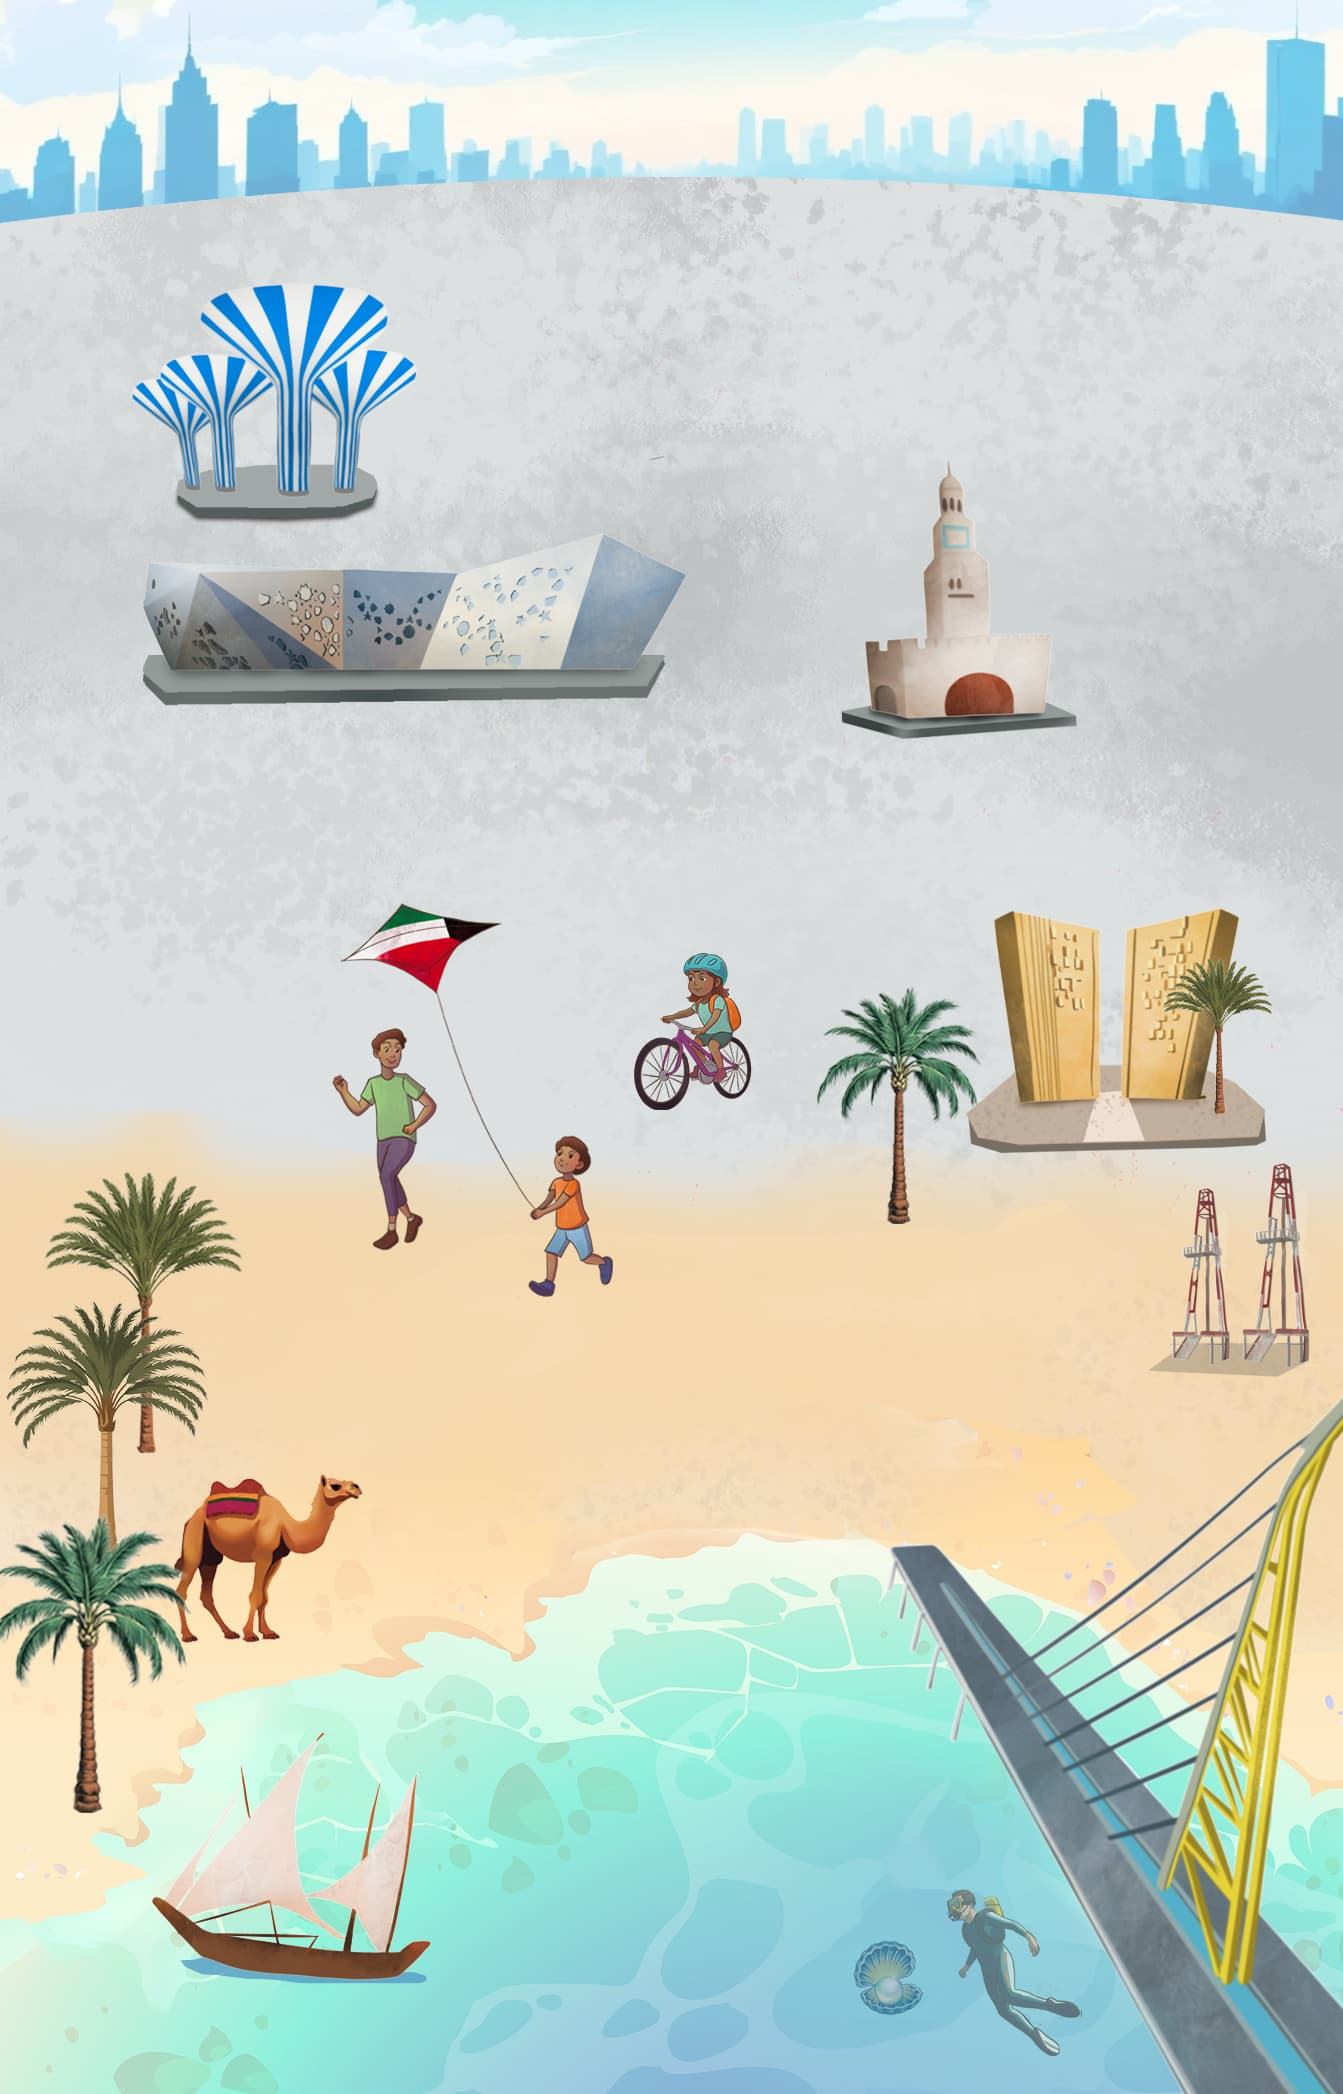
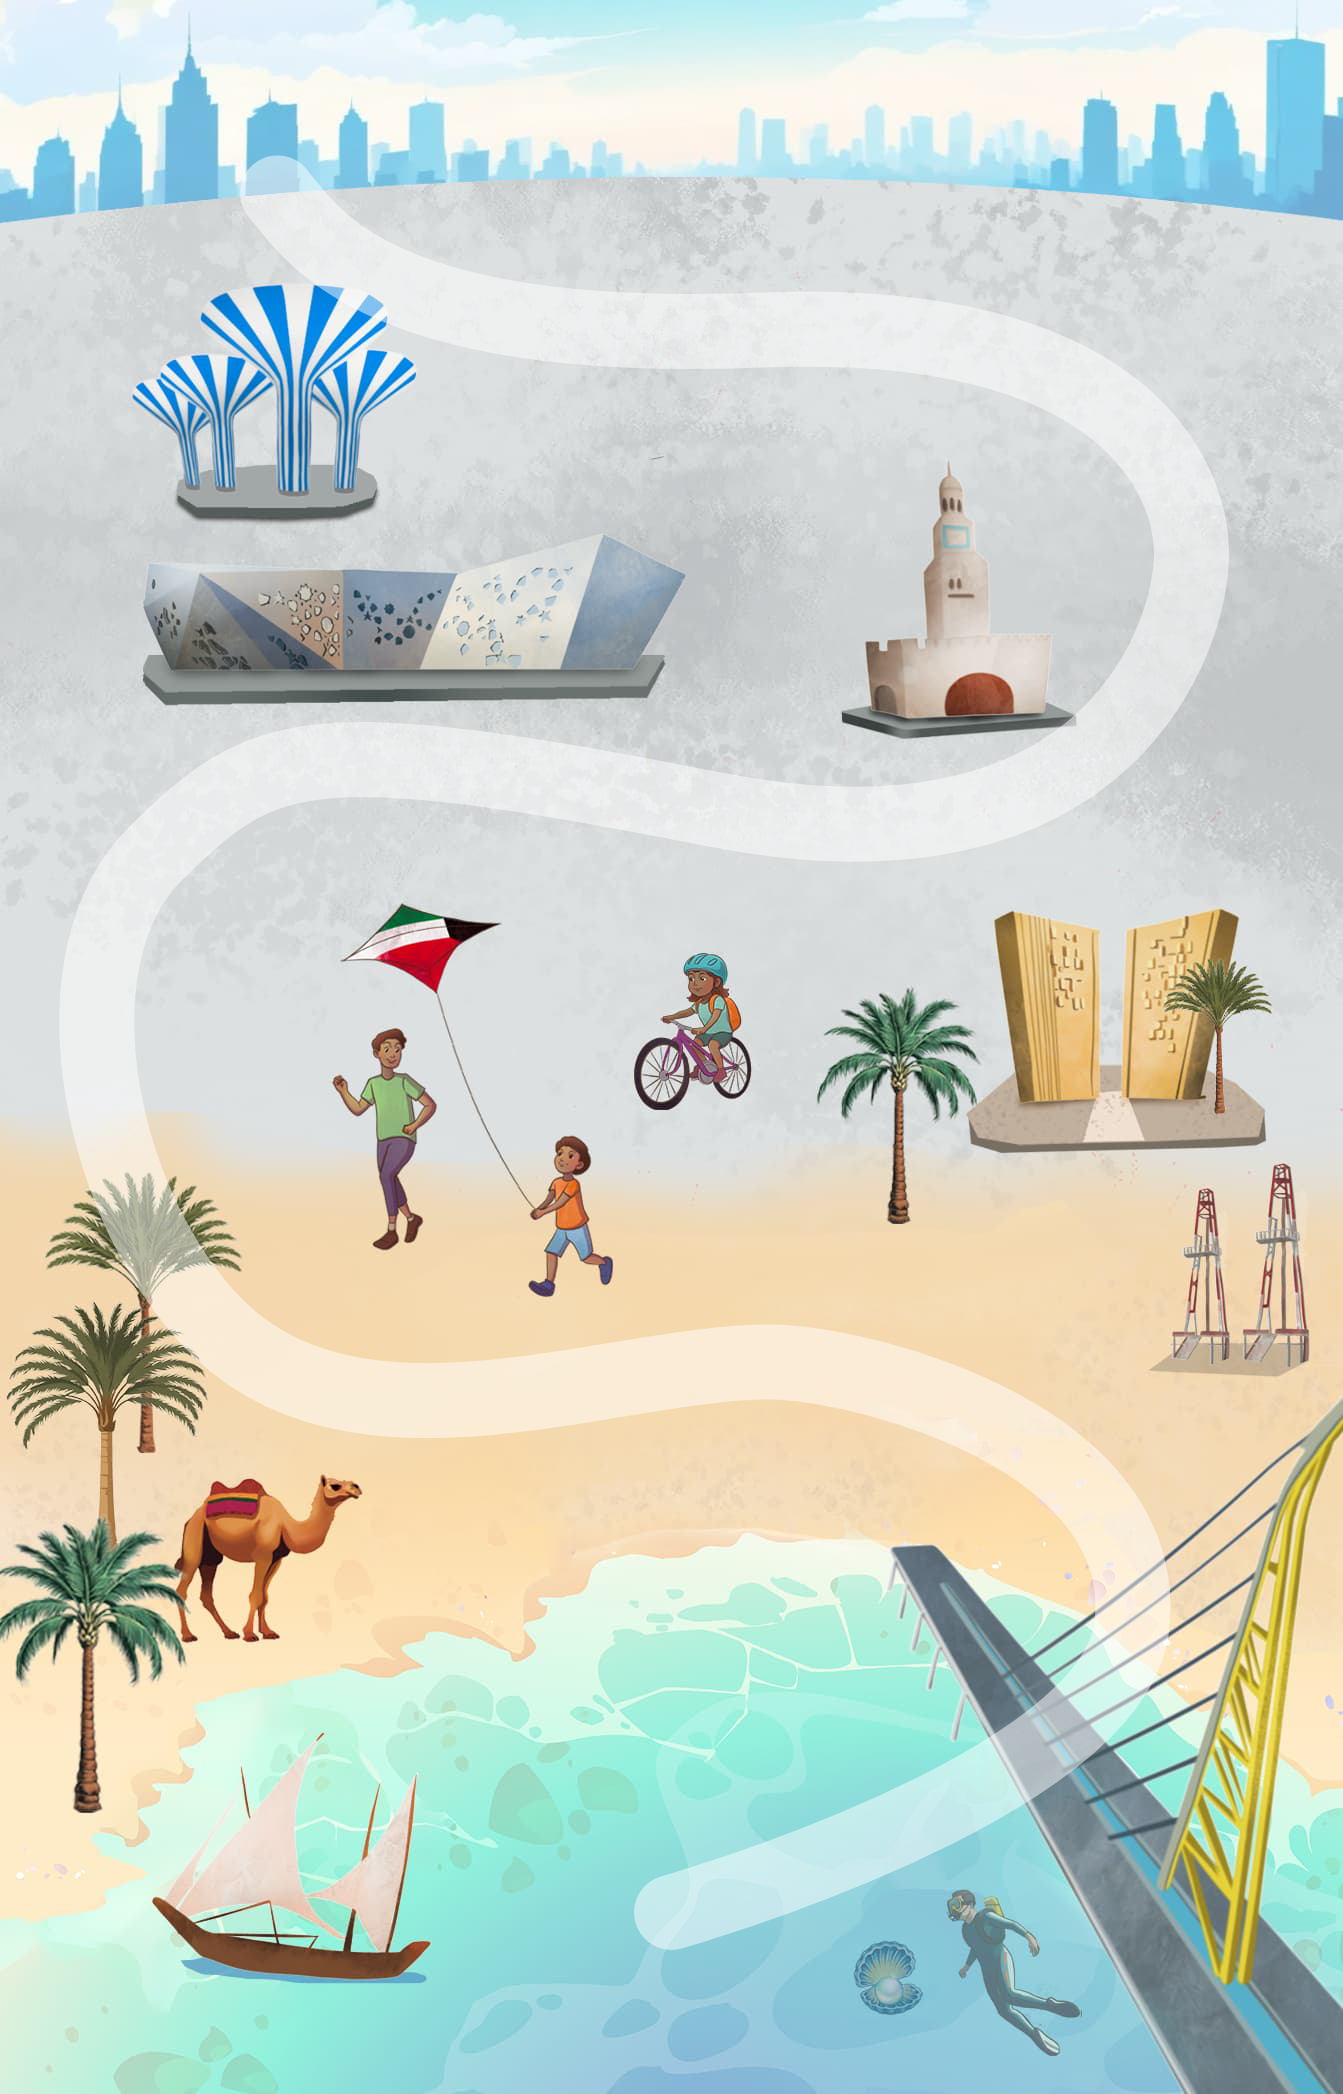
content: 1.2.16

diff --git a/config.ts b/config.ts
@@ -4,7 +4,7 @@ const config = extendDeploymentConfig({ name: "plh_kids_kw", parent: "plh_kids" 
 
 config.git = {
   content_repo: "https://github.com/IDEMSInternational/plh-kids-app-kw-content.git",
-  content_tag_latest: "1.2.15",
+  content_tag_latest: "1.2.16",
 };
 
 config.android = {

diff --git a/reports/summary.md b/reports/summary.md
@@ -6,13 +6,13 @@
 | accordion | 1 |
 | accordion_section | 1 |
 | audio | 3 |
-| button | 66 |
+| button | 64 |
 | combo_box | 6 |
-| data_items | 52 |
+| data_items | 59 |
 | debug_toggle | 1 |
-| display_grid | 2 |
-| display_group | 52 |
-| image | 10 |
+| display_grid | 3 |
+| display_group | 56 |
+| image | 11 |
 | items | 10 |
 | lottie_animation | 3 |
 | nested_properties | 54 |
@@ -23,22 +23,22 @@
 | plh_module_list_item | 1 |
 | plh_progress_path | 1 |
 | qr_code | 1 |
-| radio_button_grid | 5 |
+| radio_button_grid | 6 |
 | radio_group | 2 |
 | round_button | 4 |
 | select_text | 1 |
 | set_field | 4 |
-| set_variable | 1067 |
+| set_variable | 1089 |
 | simple_checkbox | 1 |
 | task_card | 3 |
 | task_progress_bar | 2 |
-| template | 311 |
-| text | 76 |
+| template | 312 |
+| text | 90 |
 | text_area | 2 |
 | text_box | 4 |
 | text_bubble | 2 |
-| title | 38 |
-| toggle_bar | 4 |
+| title | 35 |
+| toggle_bar | 6 |
 | update_action_list | 2 |
 | video | 3 |
 | youtube | 4 |
@@ -60,13 +60,13 @@
 | emit: uncompleted | 231 |
 | feedback | 13 |
 | go_to | 11 |
-| nav_stack | 79 |
-| pop_up | 33 |
+| nav_stack | 80 |
+| pop_up | 27 |
 | reset_app | 1 |
-| set_data | 25 |
+| set_data | 30 |
 | set_field | 47 |
-| set_item | 25 |
-| set_local | 18 |
+| set_item | 26 |
+| set_local | 23 |
 | task | 3 |
 | user | 1 |
 </details>
@@ -76,7 +76,7 @@
 
 | assets | KB | MB |
 | --- | --- | --- |
-| total | 37450 KB | 37.4 MB |
+| total | 37995 KB | 38 MB |
 | unused | 9585 KB | 9.6 MB |
 </details>
 
@@ -188,6 +188,7 @@ Assets that have references within sheets but do not appear in app-data
 | https://img.youtube.com/vi/qHWNLHpx5Mc/hqdefault.jpg | 2 |
 | https://img.youtube.com/vi/szeAVyxh2qc/hqdefault.jpg | 2 |
 | https://img.youtube.com/vi/wng0kJZJoT0/hqdefault.jpg | 2 |
+| images/backgrounds/library_bottom_right.png | 2 |
 </details>
 
 <details >
@@ -217,9 +218,8 @@ Assets that are used within sheets and also can be found in the synced asset dat
 | audio/relax/relax_8.mp3 | 432.9 | 2 |
 | images/backgrounds/activity_bottom_left.png | 3538.7 | 1 |
 | images/backgrounds/kites.svg | 37.3 | 1 |
-| images/backgrounds/library_bottom_right.png | 54 | 1 |
-| images/backgrounds/library_top_right.png | 1358.6 | 1 |
-| images/backgrounds/map_view_bg.jpg | 166.5 | 1 |
+| images/backgrounds/library_top_right.png | 1358.6 | 2 |
+| images/backgrounds/map_view_bg.jpg | 765.7 | 1 |
 | images/backgrounds/progress_arc.png | 255.4 | 1 |
 | images/child_development_yc.svg | 243.8 | 2 |
 | images/comics/child_development_yc_1.svg | 361.4 | 2 |
@@ -283,9 +283,9 @@ Assets that are used within sheets and also can be found in the synced asset dat
 | images/icons/balance_blue.png | 4.7 | 2 |
 | images/icons/brain_blue.png | 5.2 | 2 |
 | images/icons/clock_blue.png | 4.5 | 6 |
-| images/icons/diamond.png | 1.8 | 1 |
-| images/icons/diamond_active.png | 1.7 | 1 |
-| images/icons/document.svg | 7.3 | 2 |
+| images/icons/diamond.png | 1.8 | 2 |
+| images/icons/diamond_active.png | 1.7 | 2 |
+| images/icons/document.svg | 7.3 | 1 |
 | images/icons/expand_circle_right.png | 0.9 | 1 |
 | images/icons/eye_blue.png | 4.2 | 4 |
 | images/icons/faces/flushed_face.svg | 4.9 | 2 |
@@ -295,28 +295,28 @@ Assets that are used within sheets and also can be found in the synced asset dat
 | images/icons/faces/smiling.svg | 5.1 | 2 |
 | images/icons/faces/stressed.svg | 60 | 20 |
 | images/icons/faces/tired.svg | 54 | 18 |
-| images/icons/feather.svg | 3.5 | 2 |
+| images/icons/feather.svg | 3.5 | 1 |
 | images/icons/football_blue.png | 5.1 | 2 |
-| images/icons/heart.png | 0.8 | 2 |
-| images/icons/heart_filled.png | 1.4 | 1 |
-| images/icons/heart_filled_active.png | 1.5 | 1 |
+| images/icons/heart.png | 0.8 | 3 |
+| images/icons/heart_filled.png | 1.4 | 2 |
+| images/icons/heart_filled_active.png | 1.5 | 2 |
 | images/icons/heart_filled_blue.png | 4.9 | 12 |
-| images/icons/heart_filled_red.png | 1.4 | 2 |
+| images/icons/heart_filled_red.png | 1.4 | 3 |
 | images/icons/home.svg | 0.4 | 1 |
 | images/icons/home_active.svg | 0.4 | 1 |
 | images/icons/hourglass_blue.png | 4.3 | 2 |
 | images/icons/in_progress.svg | 1.1 | 2 |
-| images/icons/key.svg | 5.5 | 2 |
+| images/icons/key.svg | 5.5 | 1 |
 | images/icons/lightbulb_blue.png | 3.6 | 2 |
 | images/icons/local_library.svg | 1.6 | 1 |
 | images/icons/local_library_active.svg | 1.6 | 1 |
-| images/icons/locked.png | 0.7 | 4 |
-| images/icons/magnify_glass.svg | 1.9 | 2 |
+| images/icons/locked.png | 0.7 | 5 |
+| images/icons/magnify_glass.svg | 1.9 | 1 |
 | images/icons/magnifying_glass.svg | 0.9 | 10 |
 | images/icons/notification_bell.png | 0.9 | 1 |
 | images/icons/parent_child_heart.svg | 3 | 10 |
 | images/icons/pencil.svg | 1.1 | 10 |
-| images/icons/profile_card.svg | 7.4 | 2 |
+| images/icons/profile_card.svg | 7.4 | 1 |
 | images/icons/question_blue.png | 3.4 | 2 |
 | images/icons/repeat_blue.png | 5.4 | 2 |
 | images/icons/settings.svg | 2.4 | 1 |
@@ -331,10 +331,10 @@ Assets that are used within sheets and also can be found in the synced asset dat
 | images/icons/thought_bubble.svg | 2.1 | 10 |
 | images/icons/tick.svg | 0.3 | 1 |
 | images/icons/tick_white.svg | 0.3 | 1 |
-| images/icons/trophy.png | 1.6 | 1 |
-| images/icons/trophy_active.png | 1.7 | 1 |
+| images/icons/trophy.png | 1.6 | 2 |
+| images/icons/trophy_active.png | 1.7 | 2 |
 | images/icons/trophy_blue.png | 5.1 | 4 |
-| images/icons/world.svg | 6.2 | 2 |
+| images/icons/world.svg | 6.2 | 1 |
 | images/instructions_yc.svg | 208.8 | 2 |
 | images/kw_f1_daughter_2.svg | 34.2 | 1 |
 | images/kw_f1_daughter_6.svg | 37 | 1 |
@@ -382,10 +382,10 @@ Assets that are used within sheets and also can be found in the synced asset dat
 | data_list | relax | 1 |
 | data_pipe |  | 2 |
 | data_pipe | generated | 18 |
-| generator |  | 22 |
+| generator |  | 21 |
 | global |  | 4 |
 | global | legal_terms | 1 |
-| template |  | 58 |
-| template | generated | 235 |
+| template |  | 68 |
+| template | generated | 226 |
 | template | legal_terms | 4 |
 </details>
